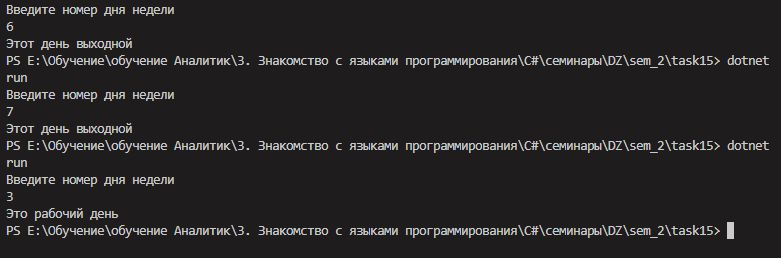
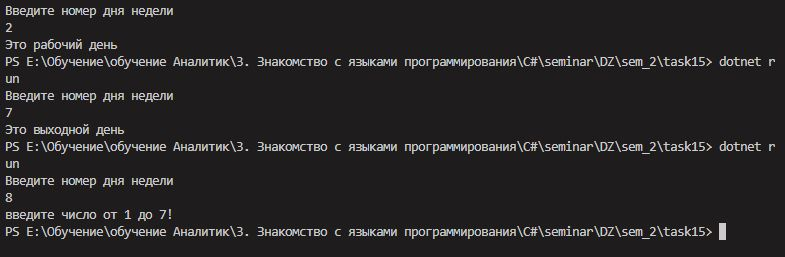
task15

diff --git a/DZ/sem_2/task15/Program.cs b/DZ/sem_2/task15/Program.cs
@@ -9,13 +9,18 @@
 int dayNumber = new int();
 Console.WriteLine("Введите номер дня недели");
 dayNumber = Convert.ToInt32(Console.ReadLine());
-
-if (dayNumber==6 || dayNumber==7)   //  || -значение ИЛИ, && - значение И
+if (dayNumber>=1 && dayNumber<8)
 {
-    Console.WriteLine("Это выходной день");
+    if (dayNumber==6 || dayNumber==7)   //  || -значение ИЛИ, && - значение И
+    {
+        Console.WriteLine("Это выходной день");
+    }
+    else
+    {
+        Console.WriteLine("Это рабочий день");
+    }
 }
 else
 {
-    Console.WriteLine("Это рабочий день");
+    Console.WriteLine("введите число от 1 до 7!");
 }
-
